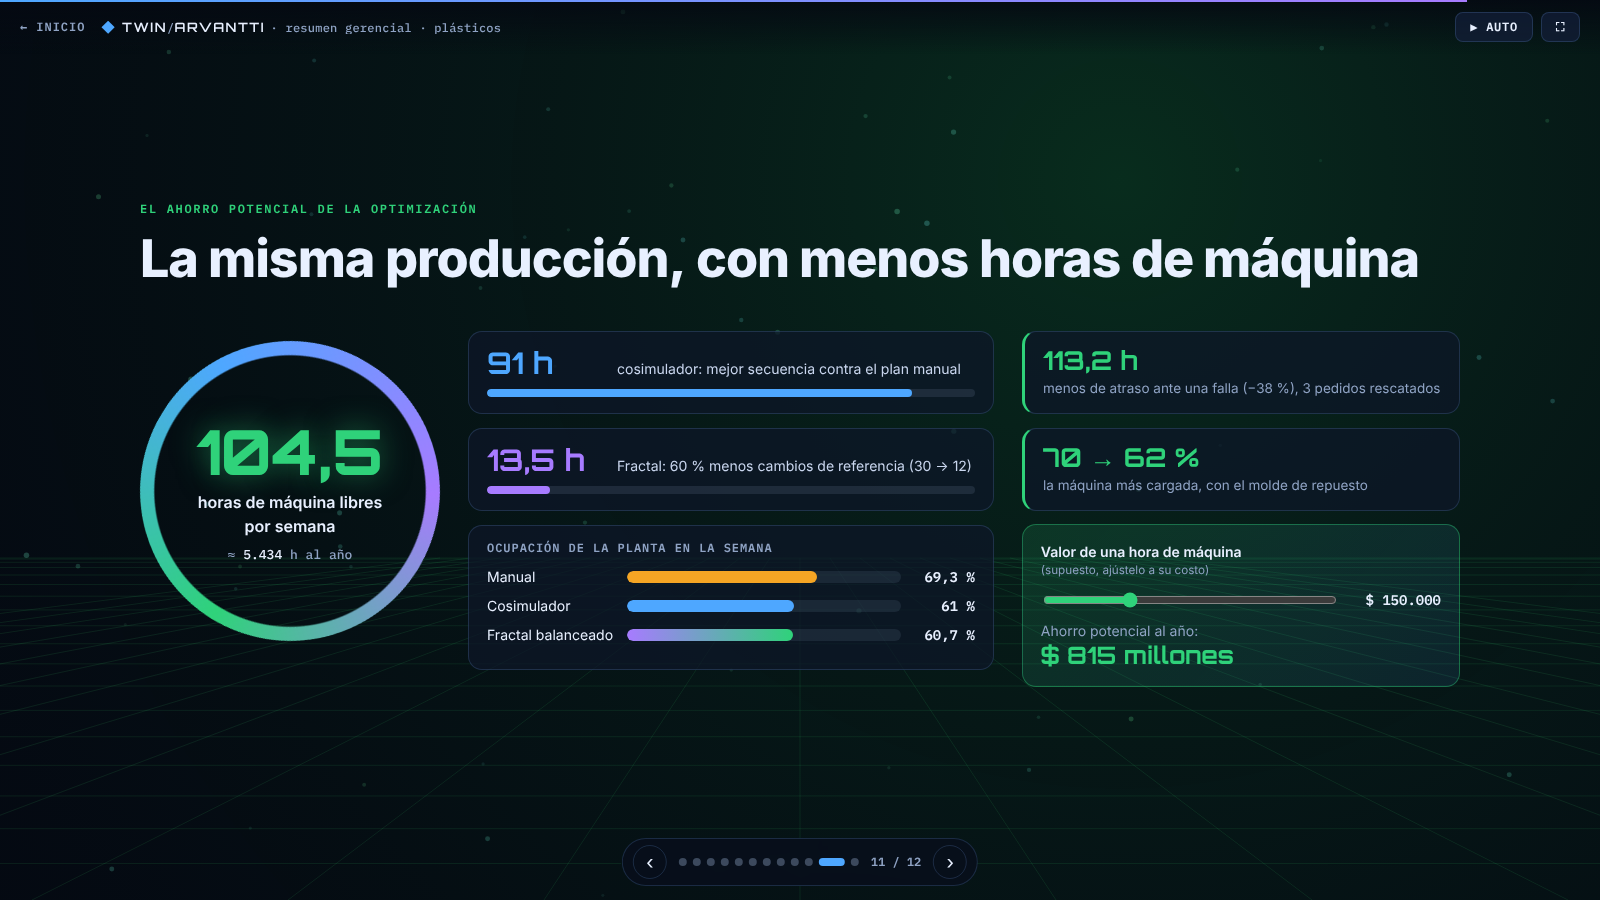
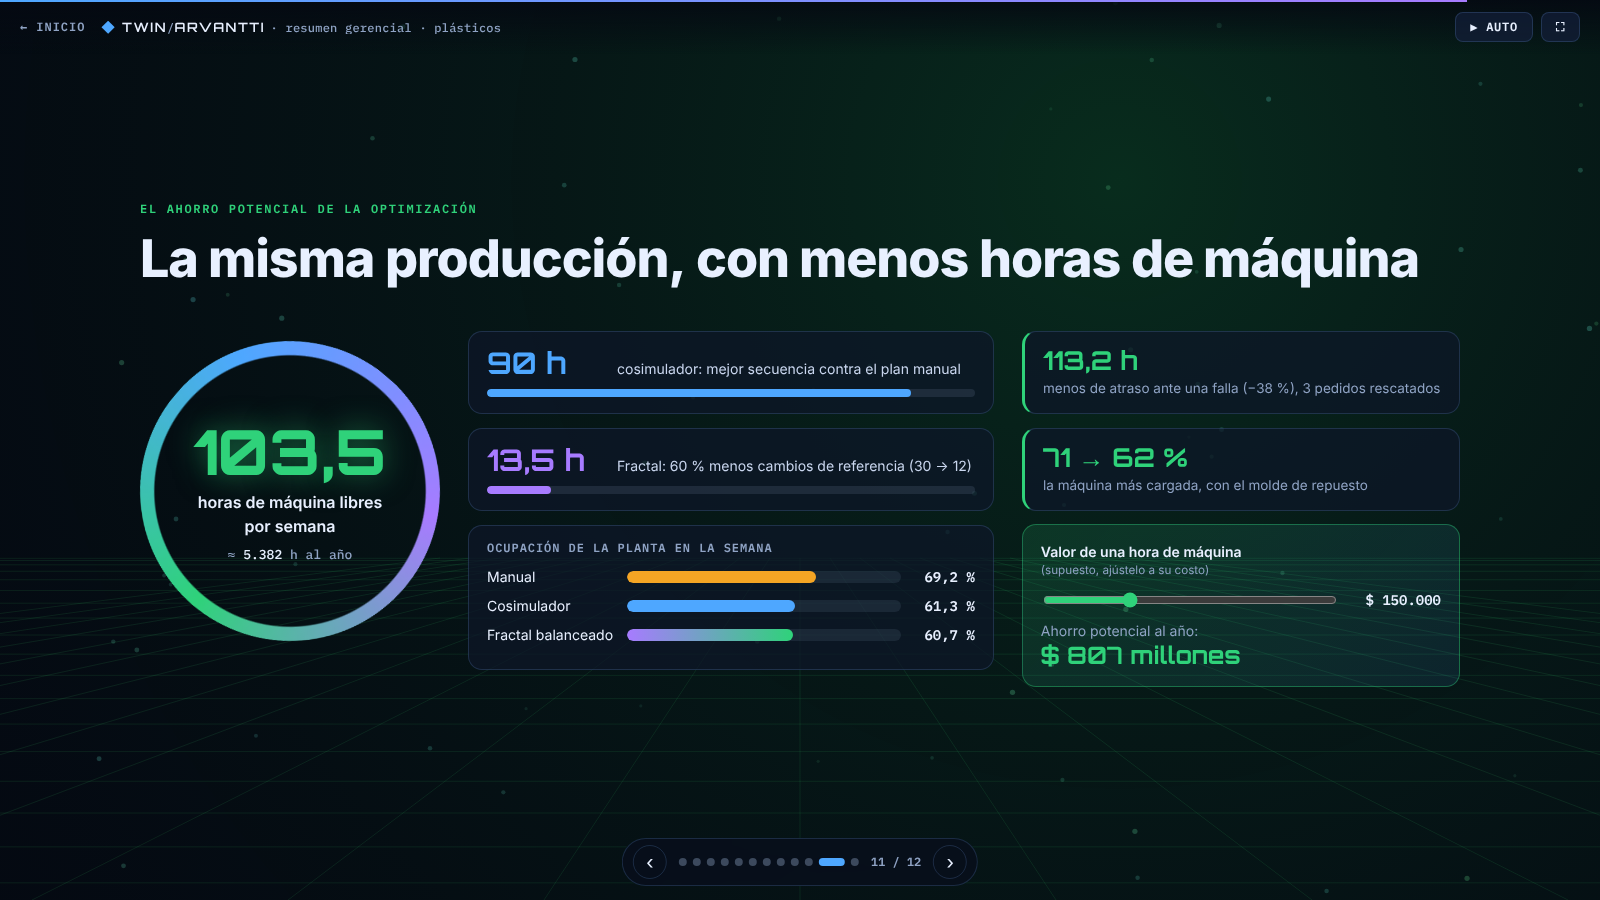
Resumen gerencial: alinear cifras con el recálculo sobre main
El cosimulador libera 90 h de máquina (793 → 703 h), no 91; ocupación
manual 69,2 % y cosimulador 61,3 %; máquina más cargada 71 → 62 %.
Total 103,5 h/semana ≈ 5.382 h/año. Captura del ahorro actualizada.

Claude-Session: https://claude.ai/code/session_01V6M9LujC6sQSYxeJgJP5eQ

diff --git a/apps/gallery/src/resumen-plasticos.ts b/apps/gallery/src/resumen-plasticos.ts
@@ -24,10 +24,10 @@ const K = {
   cosimATiempo: 92.5,
   manualTarde: 9,
   manualAtraso: 229,
-  ocManual: 69.3,
-  ocCosim: 61,
+  ocManual: 69.2,
+  ocCosim: 61.3,
   ocFractal: 60.7,
-  horasCosim: 91,
+  horasCosim: 90,
   cambiosAntes: 30,
   cambiosDespues: 12,
   hCambiosAntes: 22.5,
@@ -234,7 +234,7 @@ const slides: Slide[] = [
       <h2 class="rg-h2 kin">Cinco preguntas, cinco respuestas</h2>
       <div class="rg-scen">
         ${[
-          ["1", "Calcular según entregas", "90,3 → 92,5 %", "pedidos a tiempo, con 91 h de máquina menos en la semana"],
+          ["1", "Calcular según entregas", "90,3 → 92,5 %", "pedidos a tiempo, con 90 h de máquina menos en la semana"],
           ["2", "Un cliente adelanta su pedido", "0,6 s", "para saber que se cumple sin atrasar a los demás"],
           ["3", "Falla una inyectora", "10 → 7", "pedidos tarde montando el molde de repuesto en 90 min"],
           ["4", "Pedidos fijados a mano", "65,9 → 61,6 %", "de ocupación sin mover las órdenes bloqueadas"],
@@ -280,7 +280,7 @@ const slides: Slide[] = [
       </div>
       <div class="rg-save-side">
         <div class="rg-mini a" data-a="pop" style="--d:1.7s"><b data-count="${K.atrasoFallaAntes - K.atrasoFallaDespues}" data-dec="1" data-suf=" h">0</b><span>menos de atraso ante una falla (−38 %), 3 pedidos rescatados</span></div>
-        <div class="rg-mini a" data-a="pop" style="--d:1.85s"><b>70 → 62 %</b><span>la máquina más cargada, con el molde de repuesto</span></div>
+        <div class="rg-mini a" data-a="pop" style="--d:1.85s"><b>71 → 62 %</b><span>la máquina más cargada, con el molde de repuesto</span></div>
         <div class="rg-calc a" data-a="up" style="--d:2s">
           <label for="rg-rate">Valor de una hora de máquina <small>(supuesto, ajústelo a su costo)</small></label>
           <div class="rg-calc-row"><input id="rg-rate" type="range" min="50000" max="400000" step="10000" value="150000" /><output id="rg-rate-out">$ 150.000</output></div>
